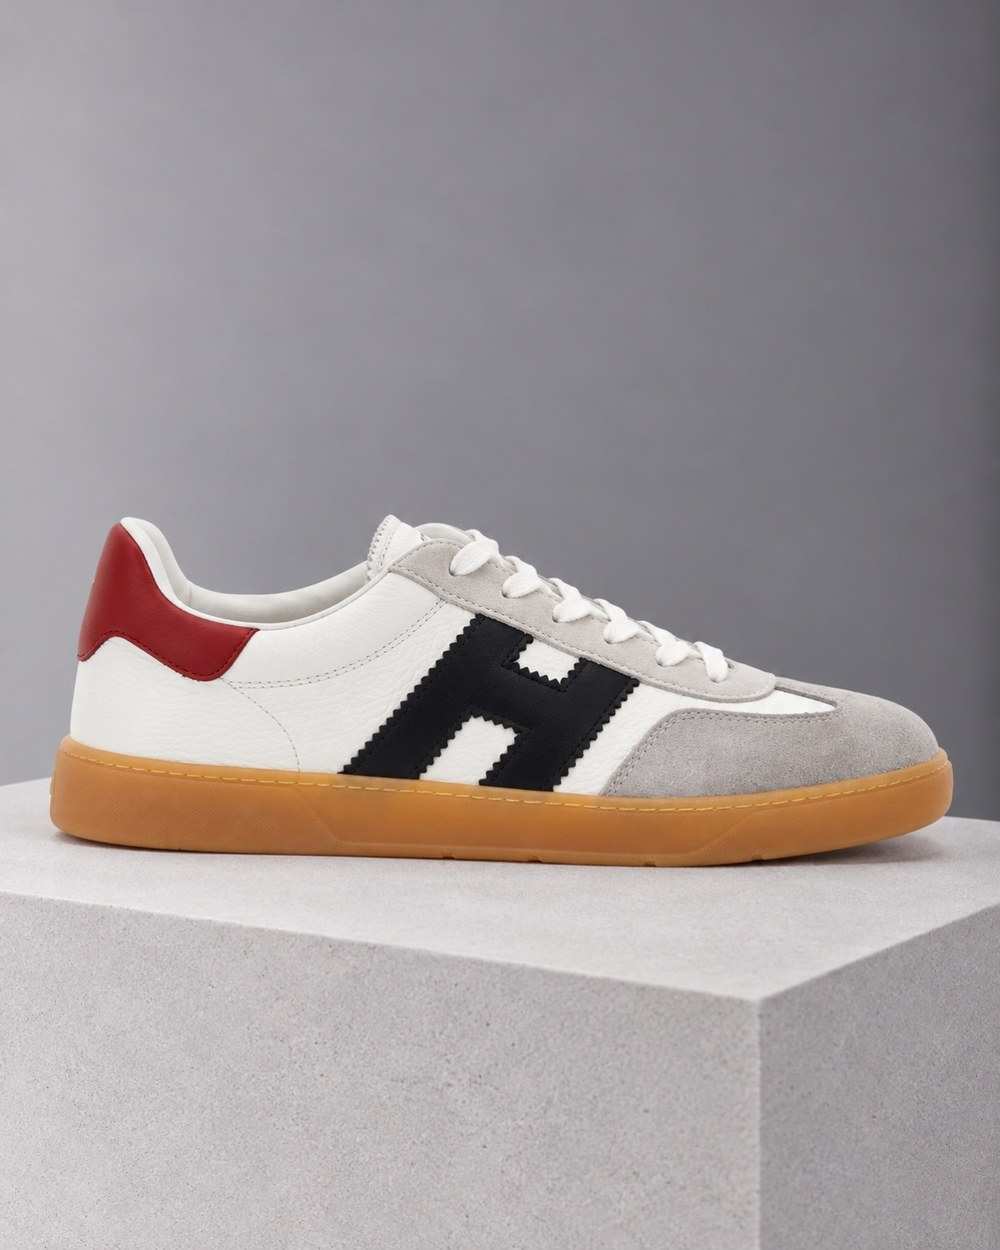
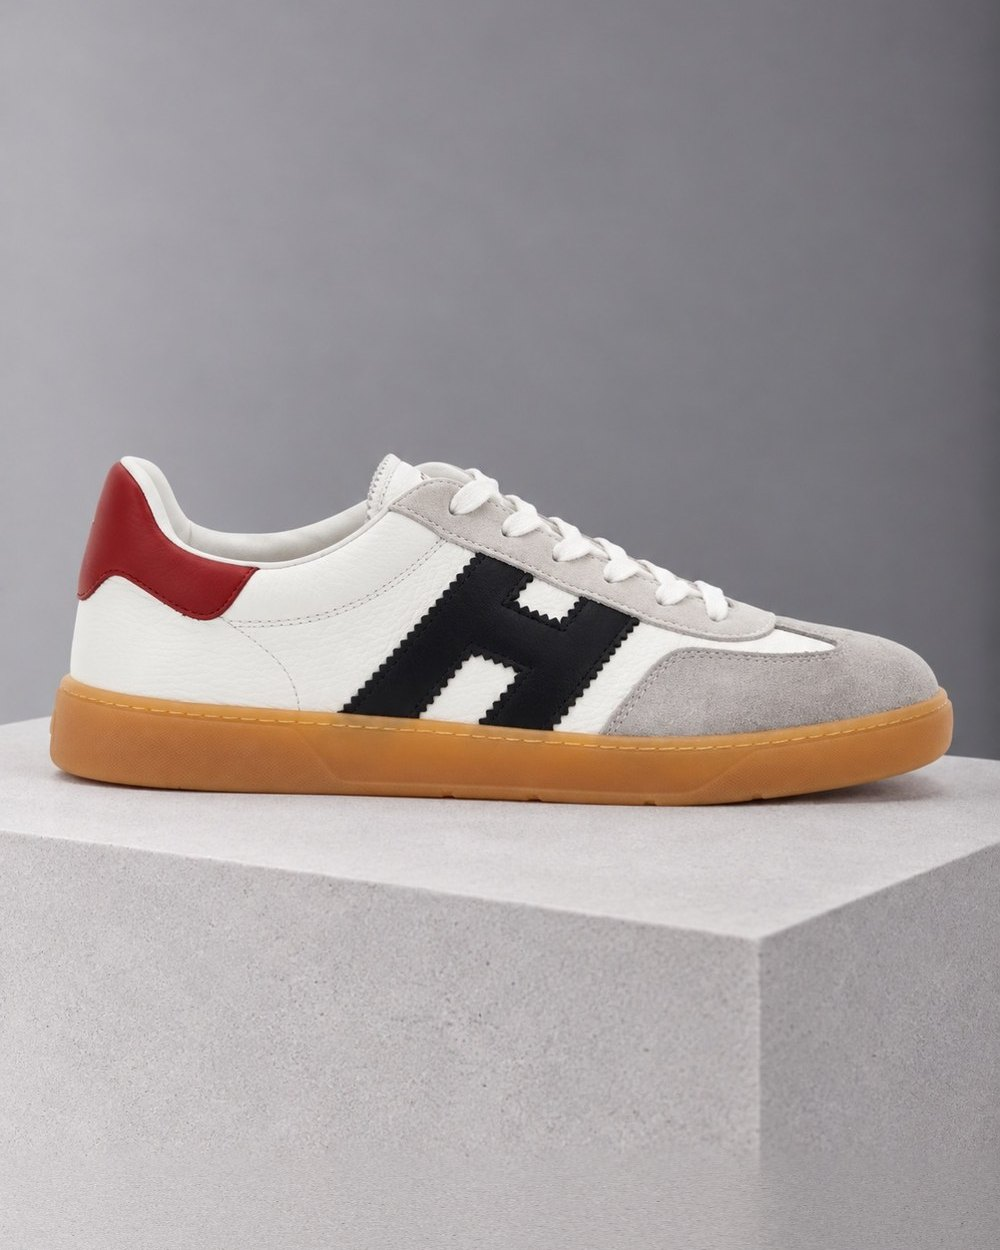
Schoenen in foto's gelijk uitgelijnd, nieuwe artikelen 2611-006/007/008, bruine bodywarmer op de homepage
Claude-Session: https://claude.ai/code/session_015YQoynS9t5PNSewTzha8Au

Changed region(s): [[0.0, 0.3432, 1.0, 0.8112]]

diff --git a/src/page.html b/src/page.html
@@ -944,7 +944,7 @@ function Home({ctx}){const {t,L,products,go}=ctx;
     <${Hero} ctx=${ctx}/>
     <section className="wrap" style=${{paddingBlock:'clamp(48px,7vw,96px) clamp(44px,5vw,72px)'}} data-tone="ivory">
       <div className="shead rv"><h2>${t.catEy}</h2><button className="lnk" onClick=${()=>go({v:'col',p:'all'})}>${t.viewAll}</button></div>
-      <div className="cats">${[['men','img/cat-men.jpg',{v:'col',p:'men-sneakers'}],['women','img/cat-women.jpg',{v:'col',p:'women-sneakers'}],['clothing','img/jp-2610-029-0n.jpg',{v:'col',p:'clothing'}]].map(([k,src,r])=>html`<button key=${k} className="cat" onClick=${()=>go(r)}><span className="im rv-img"><img ...${imp(src,800)} alt="" loading="lazy"/></span><span className="lbl"><b>${t.cats[k]}</b><span>→</span></span></button>`)}</div>
+      <div className="cats">${[['men','img/cat-men.jpg',{v:'col',p:'men-sneakers'}],['women','img/cat-women.jpg',{v:'col',p:'women-sneakers'}],['clothing','img/jp-2611-007-0n.jpg',{v:'col',p:'clothing'}]].map(([k,src,r])=>html`<button key=${k} className="cat" onClick=${()=>go(r)}><span className="im rv-img"><img ...${imp(src,800)} alt="" loading="lazy"/></span><span className="lbl"><b>${t.cats[k]}</b><span>→</span></span></button>`)}</div>
     </section>
     <section style=${{paddingBlock:'clamp(40px,6vw,88px) clamp(48px,7vw,110px)'}} data-tone="beige"><div className="wrap">
       <div className="shead rv"><h2>${t.featH}</h2><button className="lnk" onClick=${()=>go({v:'col',p:'all'})}>${t.viewAll}</button></div>
